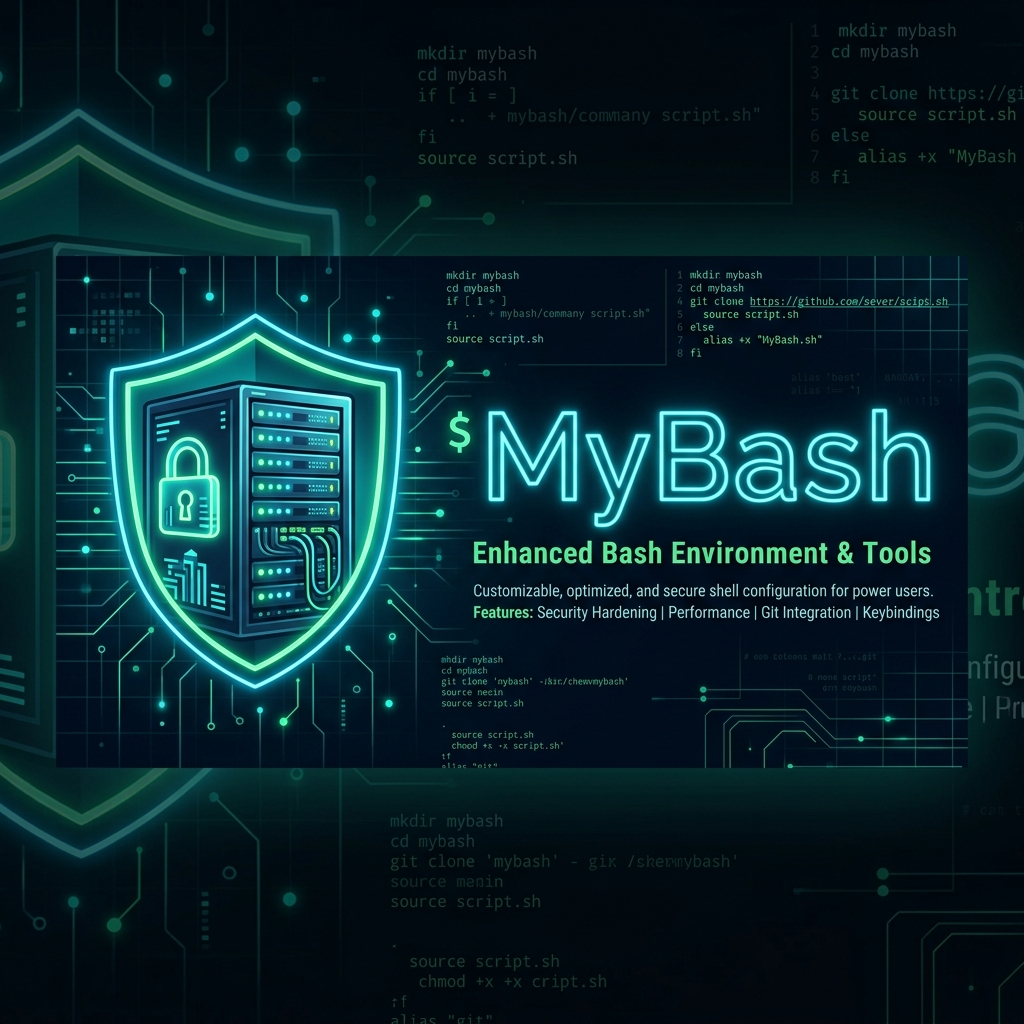
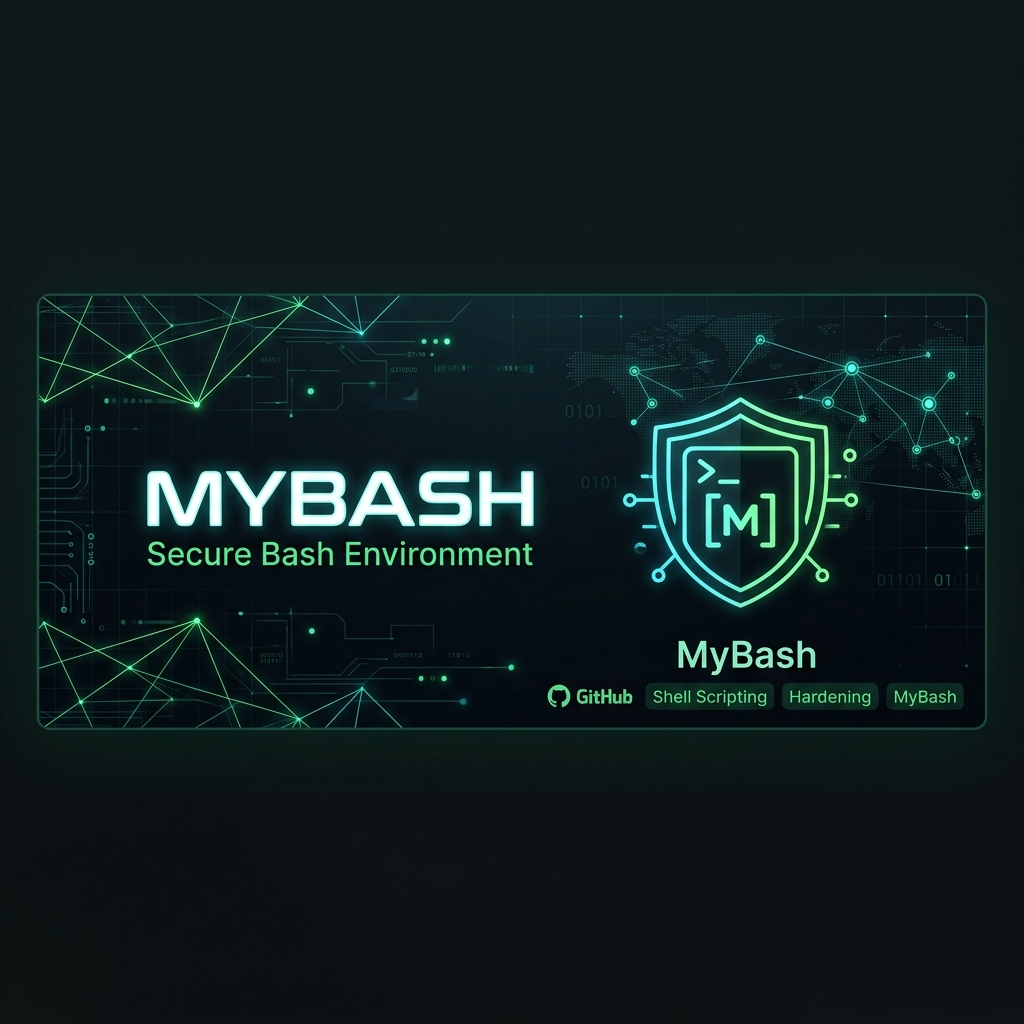
1.0.7 - Mondstadt - Menambahkan support OS RHEL/AlmaLinux/Rocky Linux/Fedora Server

diff --git a/README.md b/README.md
@@ -1,7 +1,7 @@
 # ⚡ MyBash — Server Automation & Hardening Scripts
 
 <p align="center">
-  <img src="assets/mybash_banner.png" alt="MyBash Banner" width="100%">
+  <img src="assets/mybash_banner.png" alt="MyBash Banner" width="600">
 </p>
 
 [![Security Scan](https://github.com/diona-katzlein/MyBash/actions/workflows/security.yml/badge.svg)](https://github.com/diona-katzlein/MyBash/actions/workflows/security.yml)